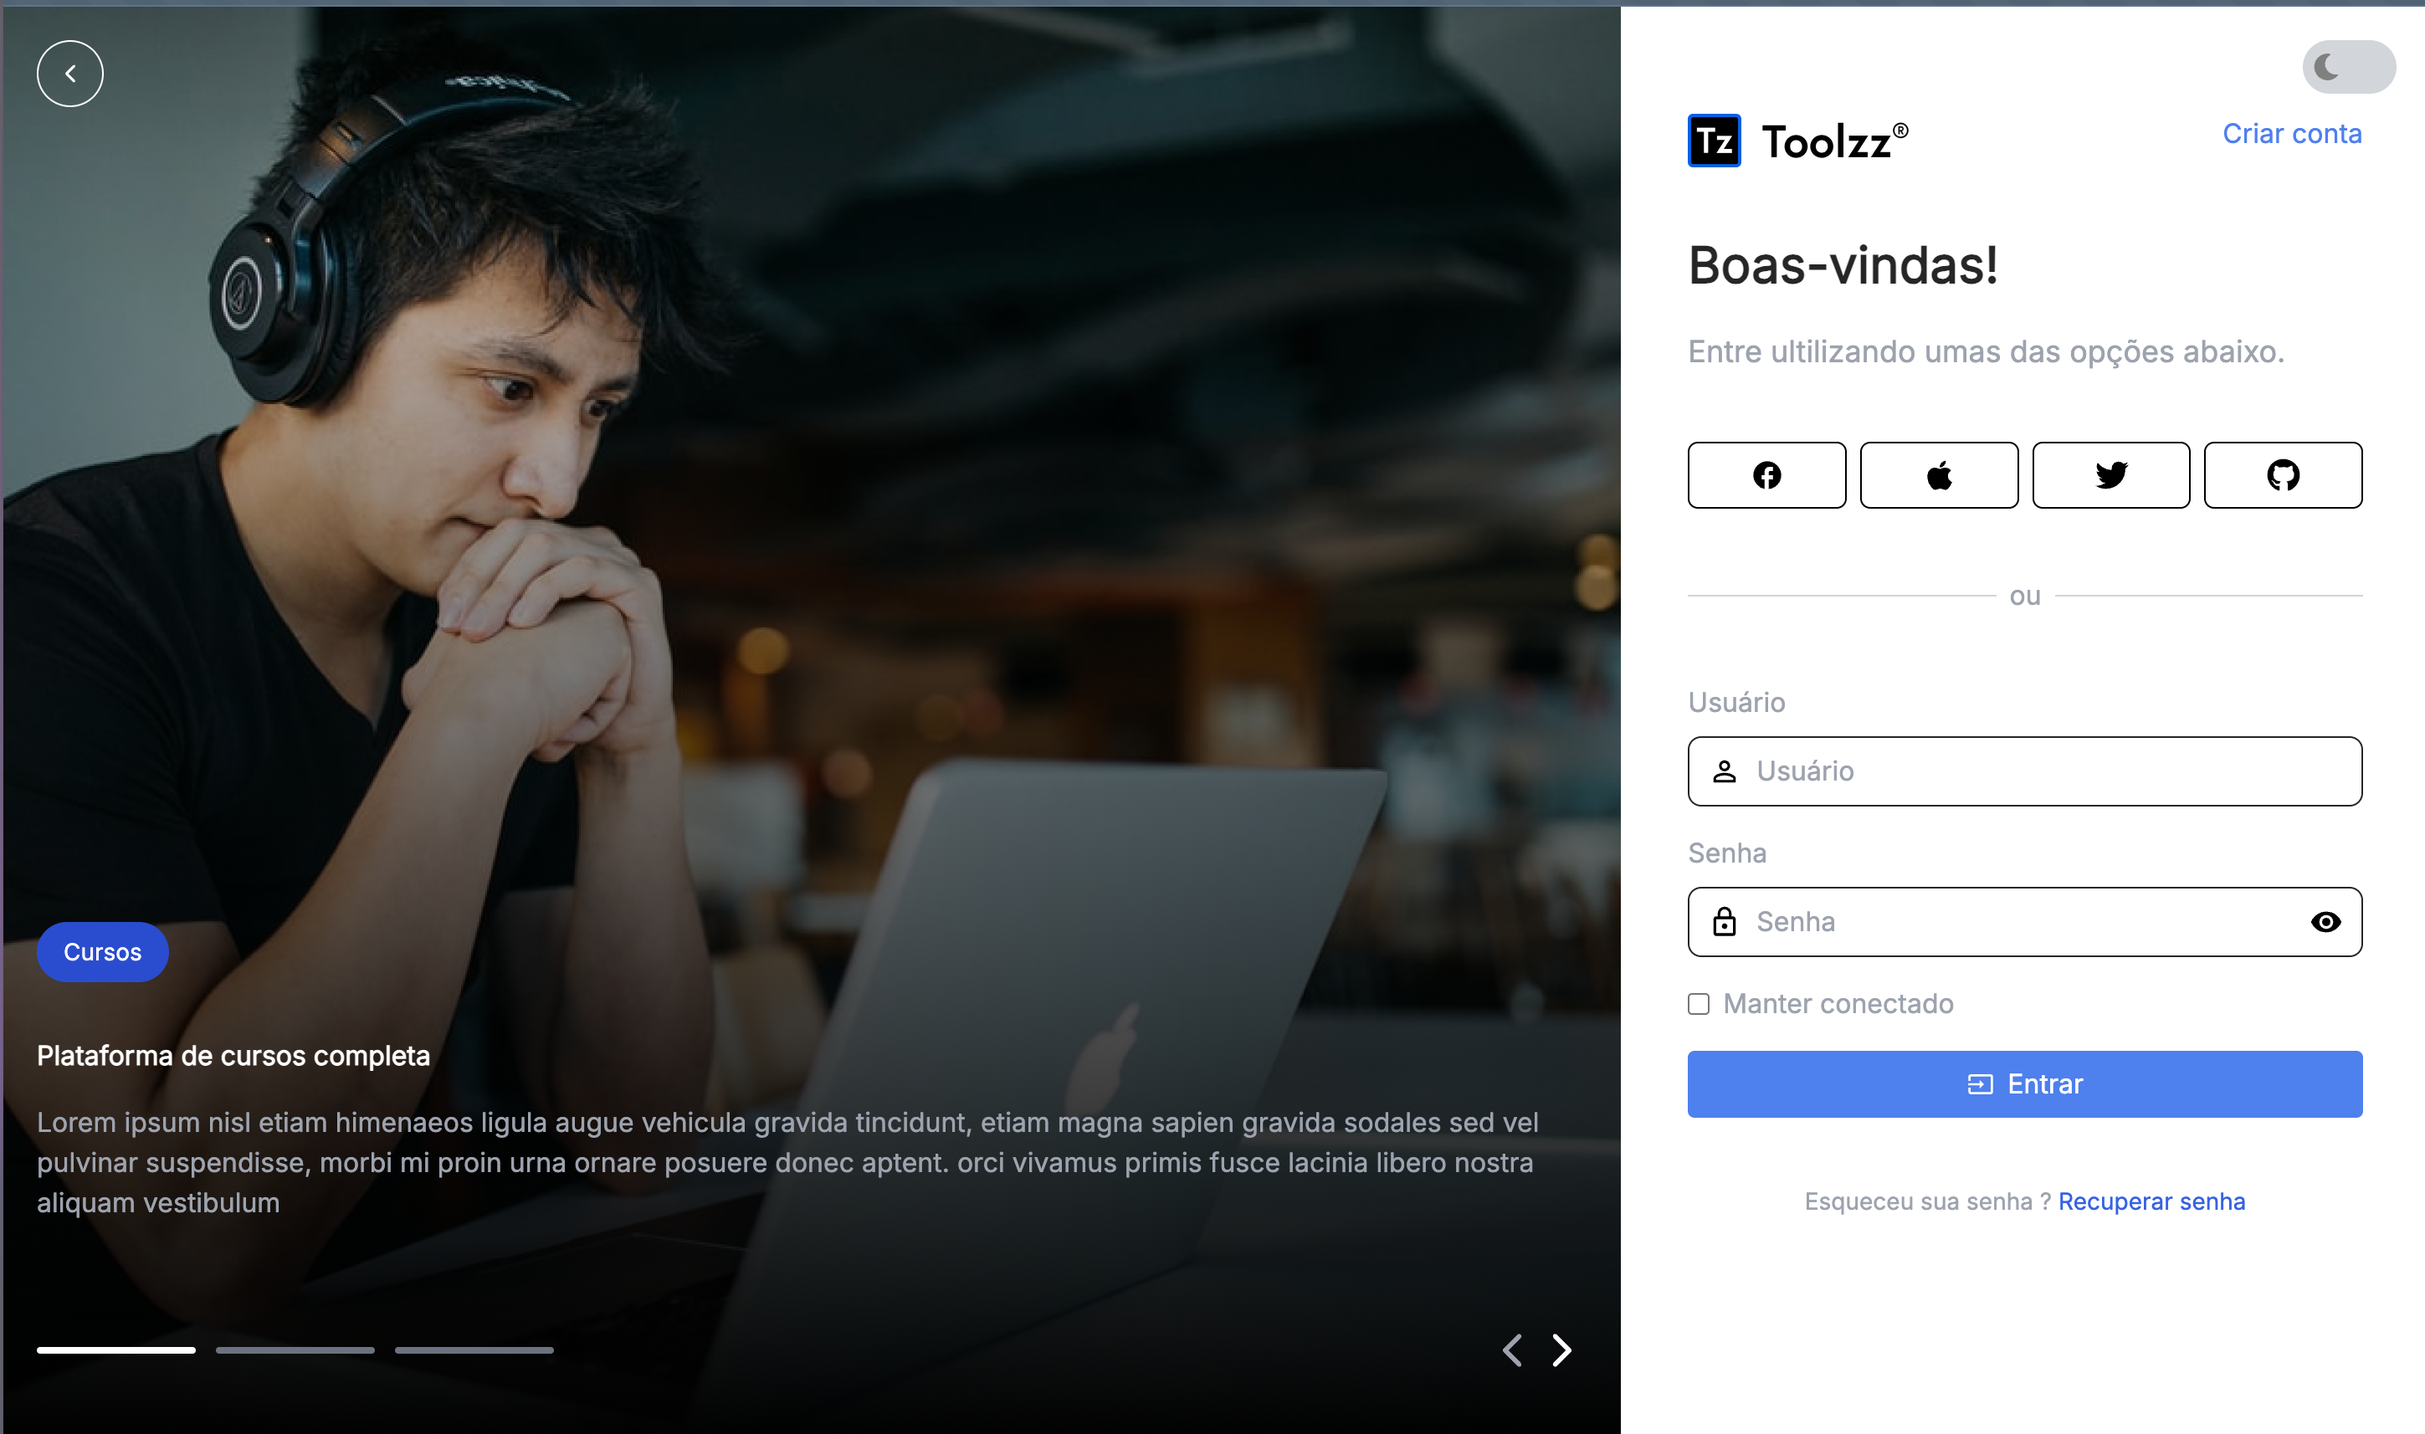
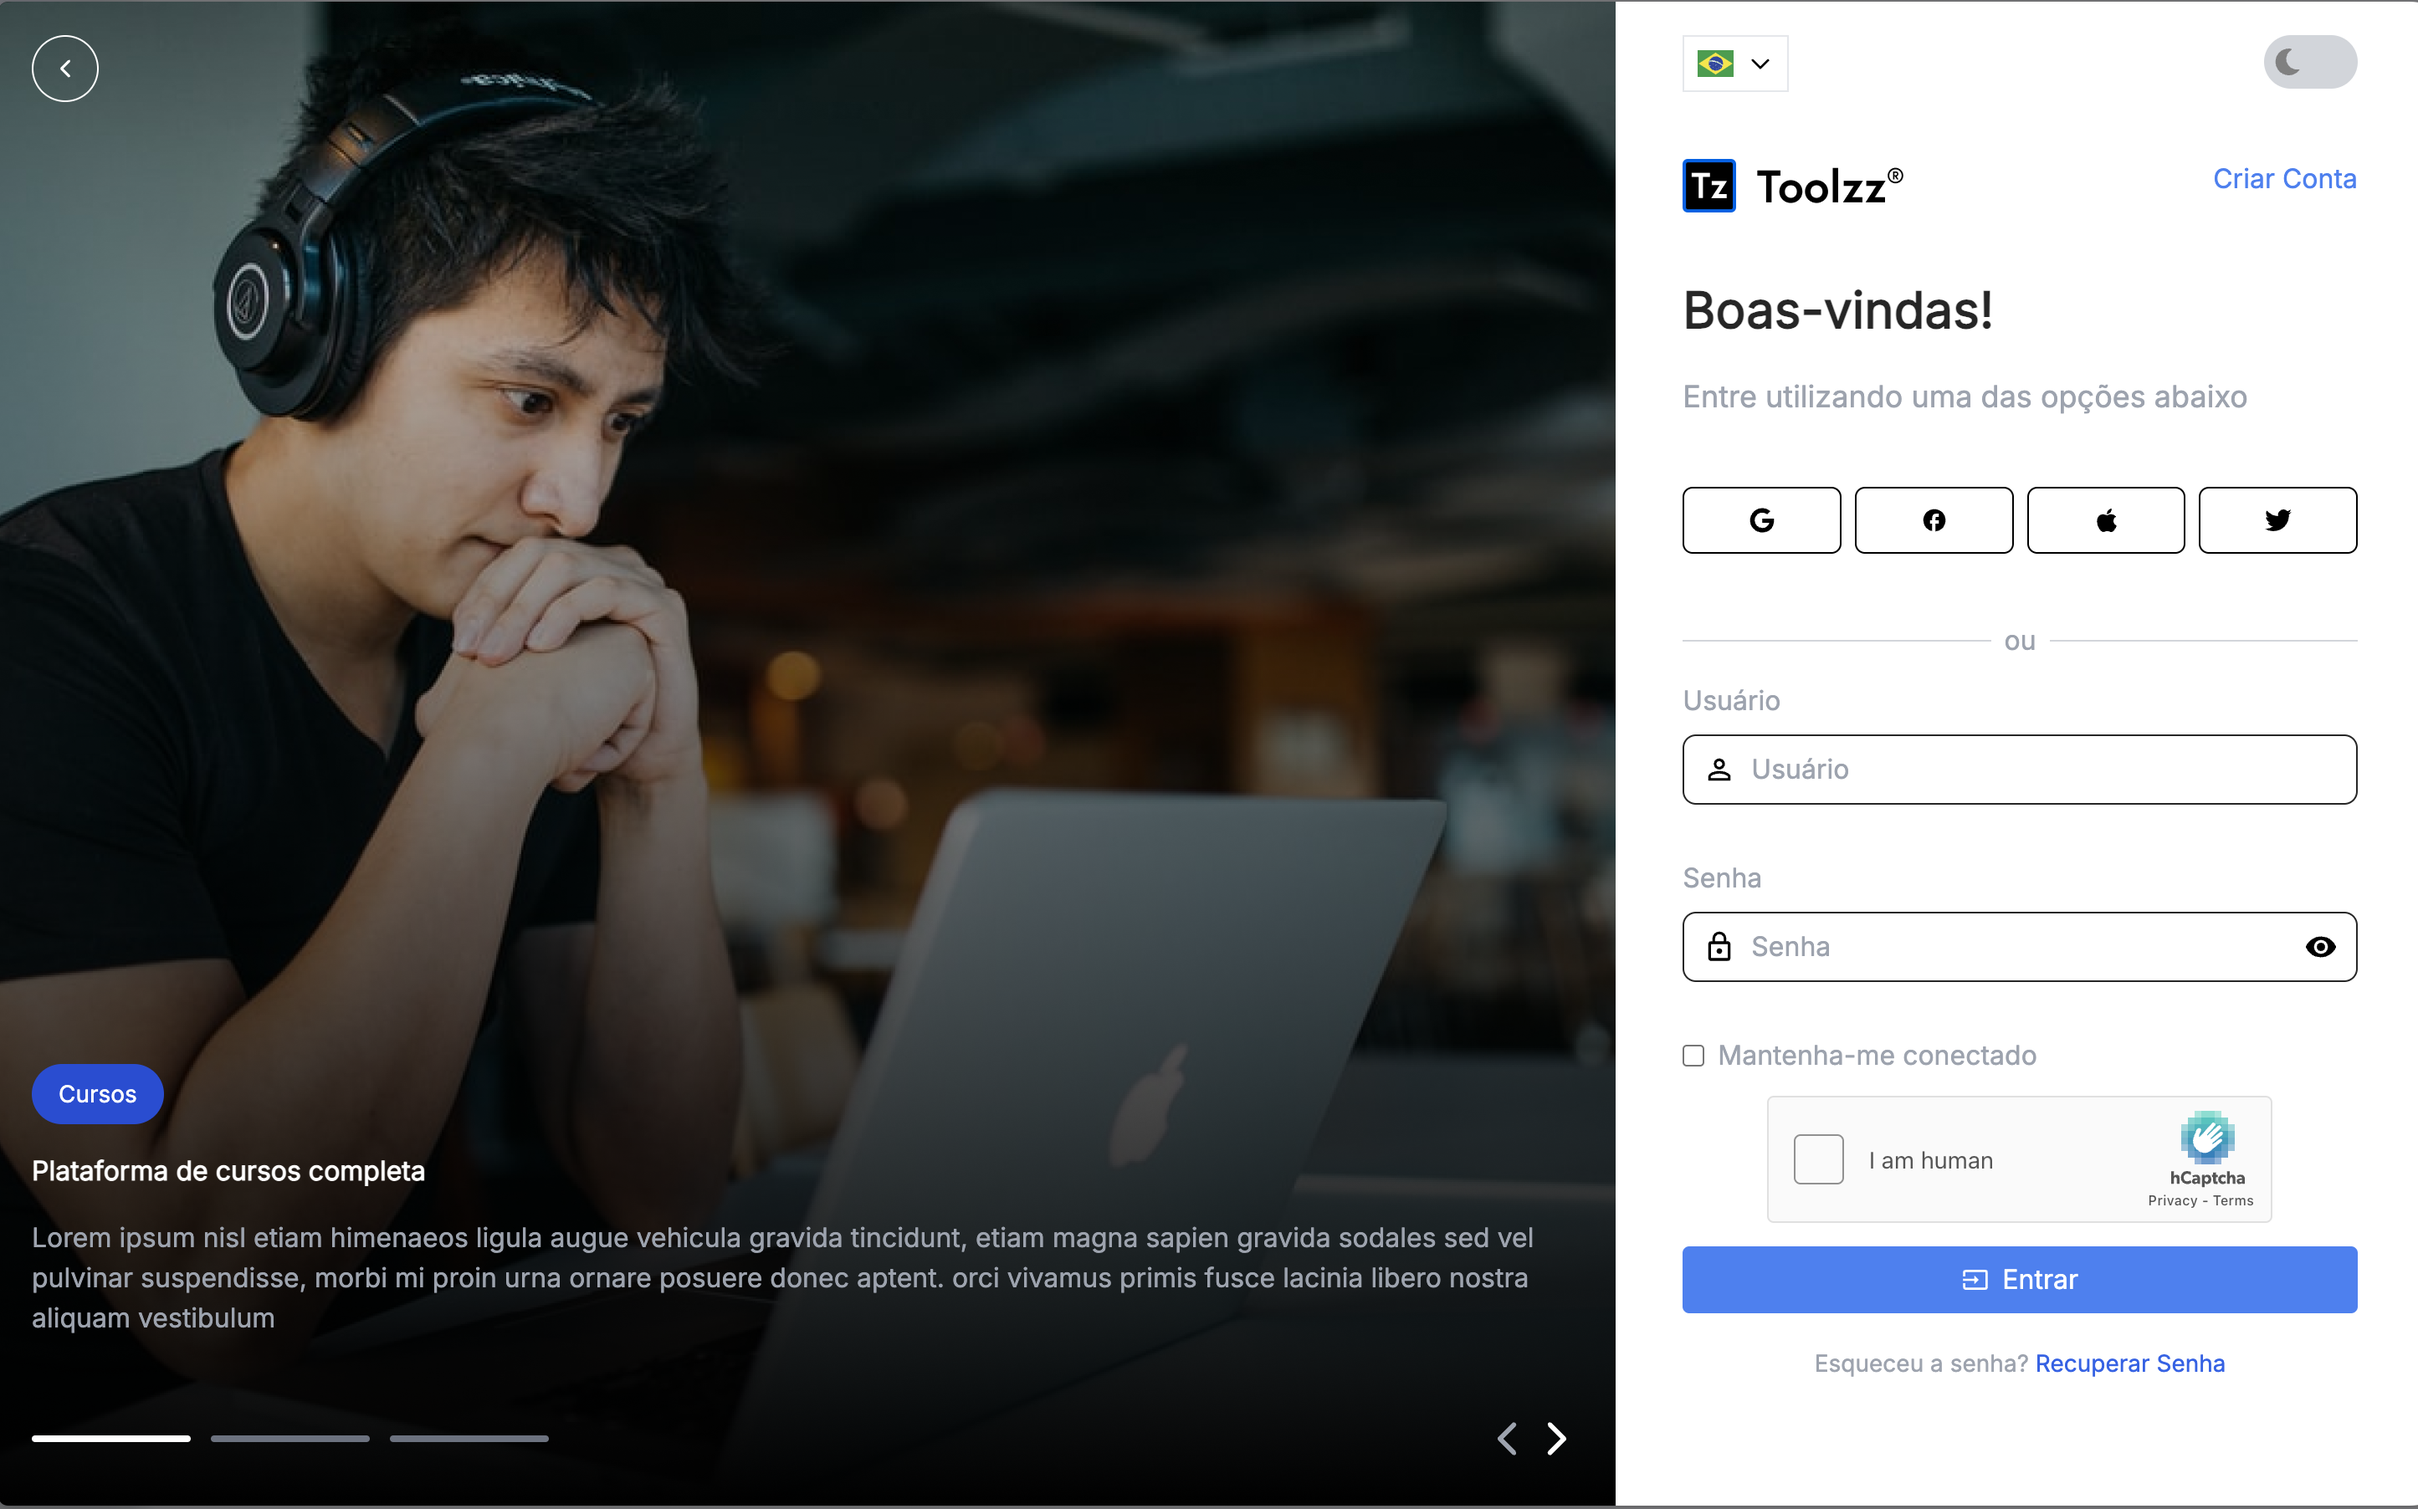
📚 docs(readme): update project features and functionalities

diff --git a/README.md b/README.md
@@ -1,19 +1,41 @@
 <p align="center">
   <h3 align="center">Login</h3>
   <div align="center">
-    <img src="./public/preview.png" width="500px" alt="Preview login responsivo">
+   <table>
+      <tr>
+         <td>Desktop</td>
+         <td>Mobile</td>
+      </tr>
+      <tr>
+         <td>
+            <img src="./public/preview.png" alt="Preview login responsivo" height="300px">
+         </td>
+         <td>
+            <img src="./public/preview-mobile.png" alt="Preview login responsivo" height="300px">
+         </td>
+      </tr>
+   </table>
   </div>
 </p>
 
 ## 📘 Sobre o Projeto
 
-Este projeto é uma aplicação web de login responsivo, desenvolvido com React Js e TypeScript. O layout foi criado no Figma e a aplicação foi desenvolvida com base no layout fornecido.
+Este projeto é uma aplicação web de login responsivo, desenvolvido com React Js e TypeScript. O layout foi criado no Figma e a aplicação foi desenvolvida com base no layout fornecido. 
+
+# 📚 Funcionalidades
+- [x] Login com autenticação integrado com API, o repósitorio da API pode ser encontrado [aqui](https://github.com/billyfranklim1/api-login)
+- [x] Responsividade
+- [x] Internacionalização (i18n) com suporte a inglês, português, espanhol e francês
+- [x] Dark Mode
+- [x] Toasts de notificação
+- [x] Animações
+
 
 ## 🎨 Layout
 
 O layout foi cuidadosamente projetado para oferecer uma excelente experiência ao usuário. O layout foi criado no Figma e pode ser acessado através do link abaixo:
 
-- [Acessar Layout no Figma]()
+- [Acessar Layout no Figma](https://www.figma.com/file/rMJhp5D79wnmq6h7r27cmv/Login---Teste?type=design&node-id=1%3A14027&mode=design&t=a5Gfvwa0lznfNflz-1)
 
 ## 💻 Tecnologias e Bibliotecas
 
@@ -25,7 +47,6 @@ Este projeto foi desenvolvido utilizando-se das seguintes tecnologias e bibliote
 - React Query
 - React Toastify
 - React I18next
-- React Loading Skeleton
 - Framer Motion
 
 ## 🚧 Pré-requisitos
@@ -57,7 +78,9 @@ Siga estes passos para configurar o projeto localmente:
    Renomeie o arquivo `.env.example` para `.env` e ajuste as variáveis conforme necessário.
 
    ```bash
-   NEXT_PUBLIC_API_URL=https://localhost:3001
+   NEXT_PUBLIC_API_URL=https://api-login.billy.dev.br
+   
+   VITE_REACT_APP_HCAPTCHA_SITE_KEY=your-hcaptcha-site-key
    ```
 
 4. **Iniciar o Projeto:**
